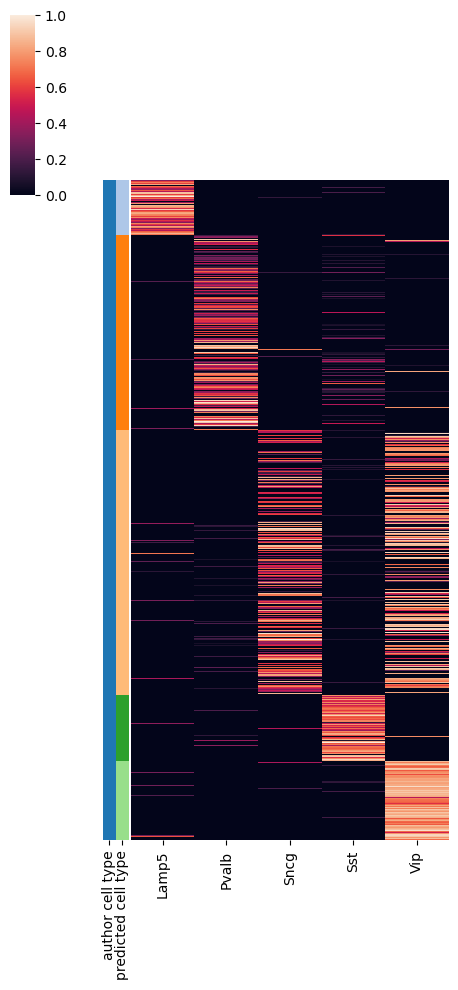
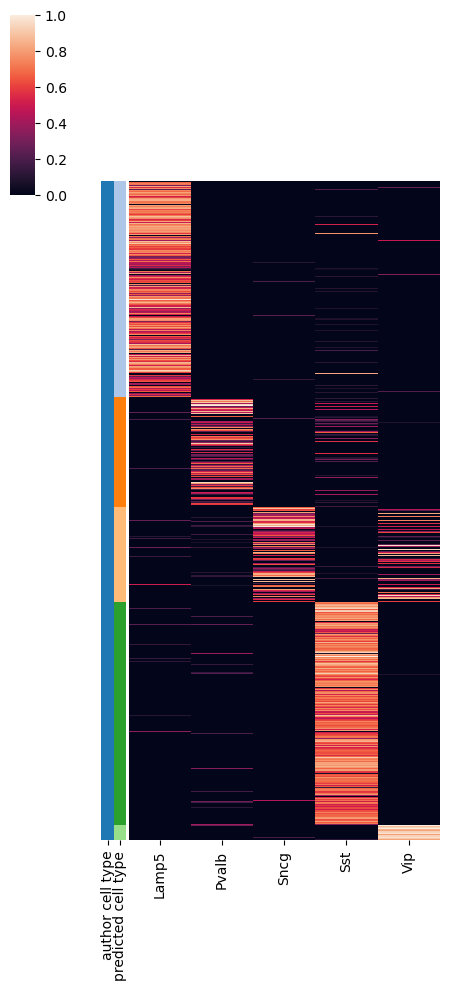
update plotting example

diff --git a/bin/plot_example_gex.py b/bin/plot_example_gex.py
@@ -29,7 +29,7 @@ random.seed(42)
 def parse_arguments():
   parser = argparse.ArgumentParser(description="Download model file based on organism, census version, and tree file.")
   parser.add_argument('--query_paths', type=str, help="path to query file", default = "/space/grp/rschwartz/rschwartz/evaluation_data_wrangling/plotting_tests_mmus")
-  parser.add_argument('--new_meta_paths', type=str, help="path to relabeled query metadata file", default = "/space/grp/rschwartz/rschwartz/nextflow_eval_pipeline/mus_musculus/sample/SCT/ref_50_query_null_cutoff_0_refsplit_dataset_id/scvi/predicted_meta")
+  parser.add_argument('--new_meta_paths', type=str, help="path to relabeled query metadata file", default = "/space/grp/rschwartz/rschwartz/nextflow_eval_pipeline/2024-07-30/mus_musculus/sample/SCT/ref_500_query_null_cutoff_0_refsplit_dataset_id/scvi/GSE124952/whole_cortex")
   parser.add_argument('--organism', type=str, help="organism", default = "mus_musculus")
   parser.add_argument('--ref_keys', type=str, help="keys to add", default = ["subclass","class","family","global"])
   parser.add_argument('--gene_mapping', type=str, default="/space/grp/rschwartz/rschwartz/evaluation_summary.nf/meta/gemma_genes.tsv")
@@ -39,12 +39,12 @@ def parse_arguments():
       return known_args
 
 
-def assemble_meta(new_meta_paths, ref="whole_cortex"):
+def assemble_meta(new_meta_paths, pattern = "predictions"):
   # restrict only to "whole cortex"
   new_meta = {}
   for root, dirs, files in os.walk(new_meta_paths):
     for file in files:
-      if re.search(ref, file):  # Use regex search for flexibilit
+      if re.search(pattern, file):  # Use regex search for flexibilit
         filepath=os.path.join(root,file)
         query_name = "_".join(os.path.basename(file).split("_")[:2])
         new_meta[query_name] = pd.read_csv(filepath, sep="\t")
@@ -217,7 +217,7 @@ def plot_glutamatergic_analysis(adata, markers, groupby, prefix="glutamatergic")
     plot_umap(glut, groupby=groupby, markers=markers, prefix=prefix)
 
 def plot_GABAergic_analysis(adata, markers, groupby, prefix="GABAergic"):
-    gaba = adata[(adata.obs["subclass"] == "GABAergic") & 
+    gaba = adata[(adata.obs["family"] == "GABAergic") & 
                  (adata.obs["predicted_family"] == "GABAergic")].copy()
     gaba.obs_names_make_unique()
 
@@ -248,7 +248,7 @@ def main():
 
 
   
-  combined = combined[~combined.obs["predicted_subclass"].isin(["Ambiguous Glutamatergic neuron","Hippocampal neuron","Ambiguous GABAergic neuron"])]
+  #combined = combined[~combined.obs["predicted_subclass"].isin(["Ambiguous Glutamatergic neuron","Hippocampal neuron","Ambiguous GABAergic neuron"])]
 
 # find NaN in predicted_subclass
   combined = combined[combined.obs["predicted_subclass"].notna()]
@@ -263,14 +263,14 @@ def main():
   if organism == "mus_musculus":
     markers = [marker.lower().capitalize() for marker in markers]
   #make markers lowercase then capitalize
-  plot_glutamatergic_analysis(combined_subsample, markers, groupby, f"{organism}_glutamatergic")
+  plot_glutamatergic_analysis(combined, markers, groupby, f"{organism}_glutamatergic")
   
   
   markers = ["LAMP5","PVALB","SNCG","SST","VIP"]
   if organism == "mus_musculus":
     markers = [marker.lower().capitalize() for marker in markers]
   #make markers lowercase then capitalize
-  plot_GABAergic_analysis(combined_subsample, markers, groupby, prefix=f"{organism}_GABAergic")
+  plot_GABAergic_analysis(combined, markers, groupby, prefix=f"{organism}_GABAergic")
   
 
   
